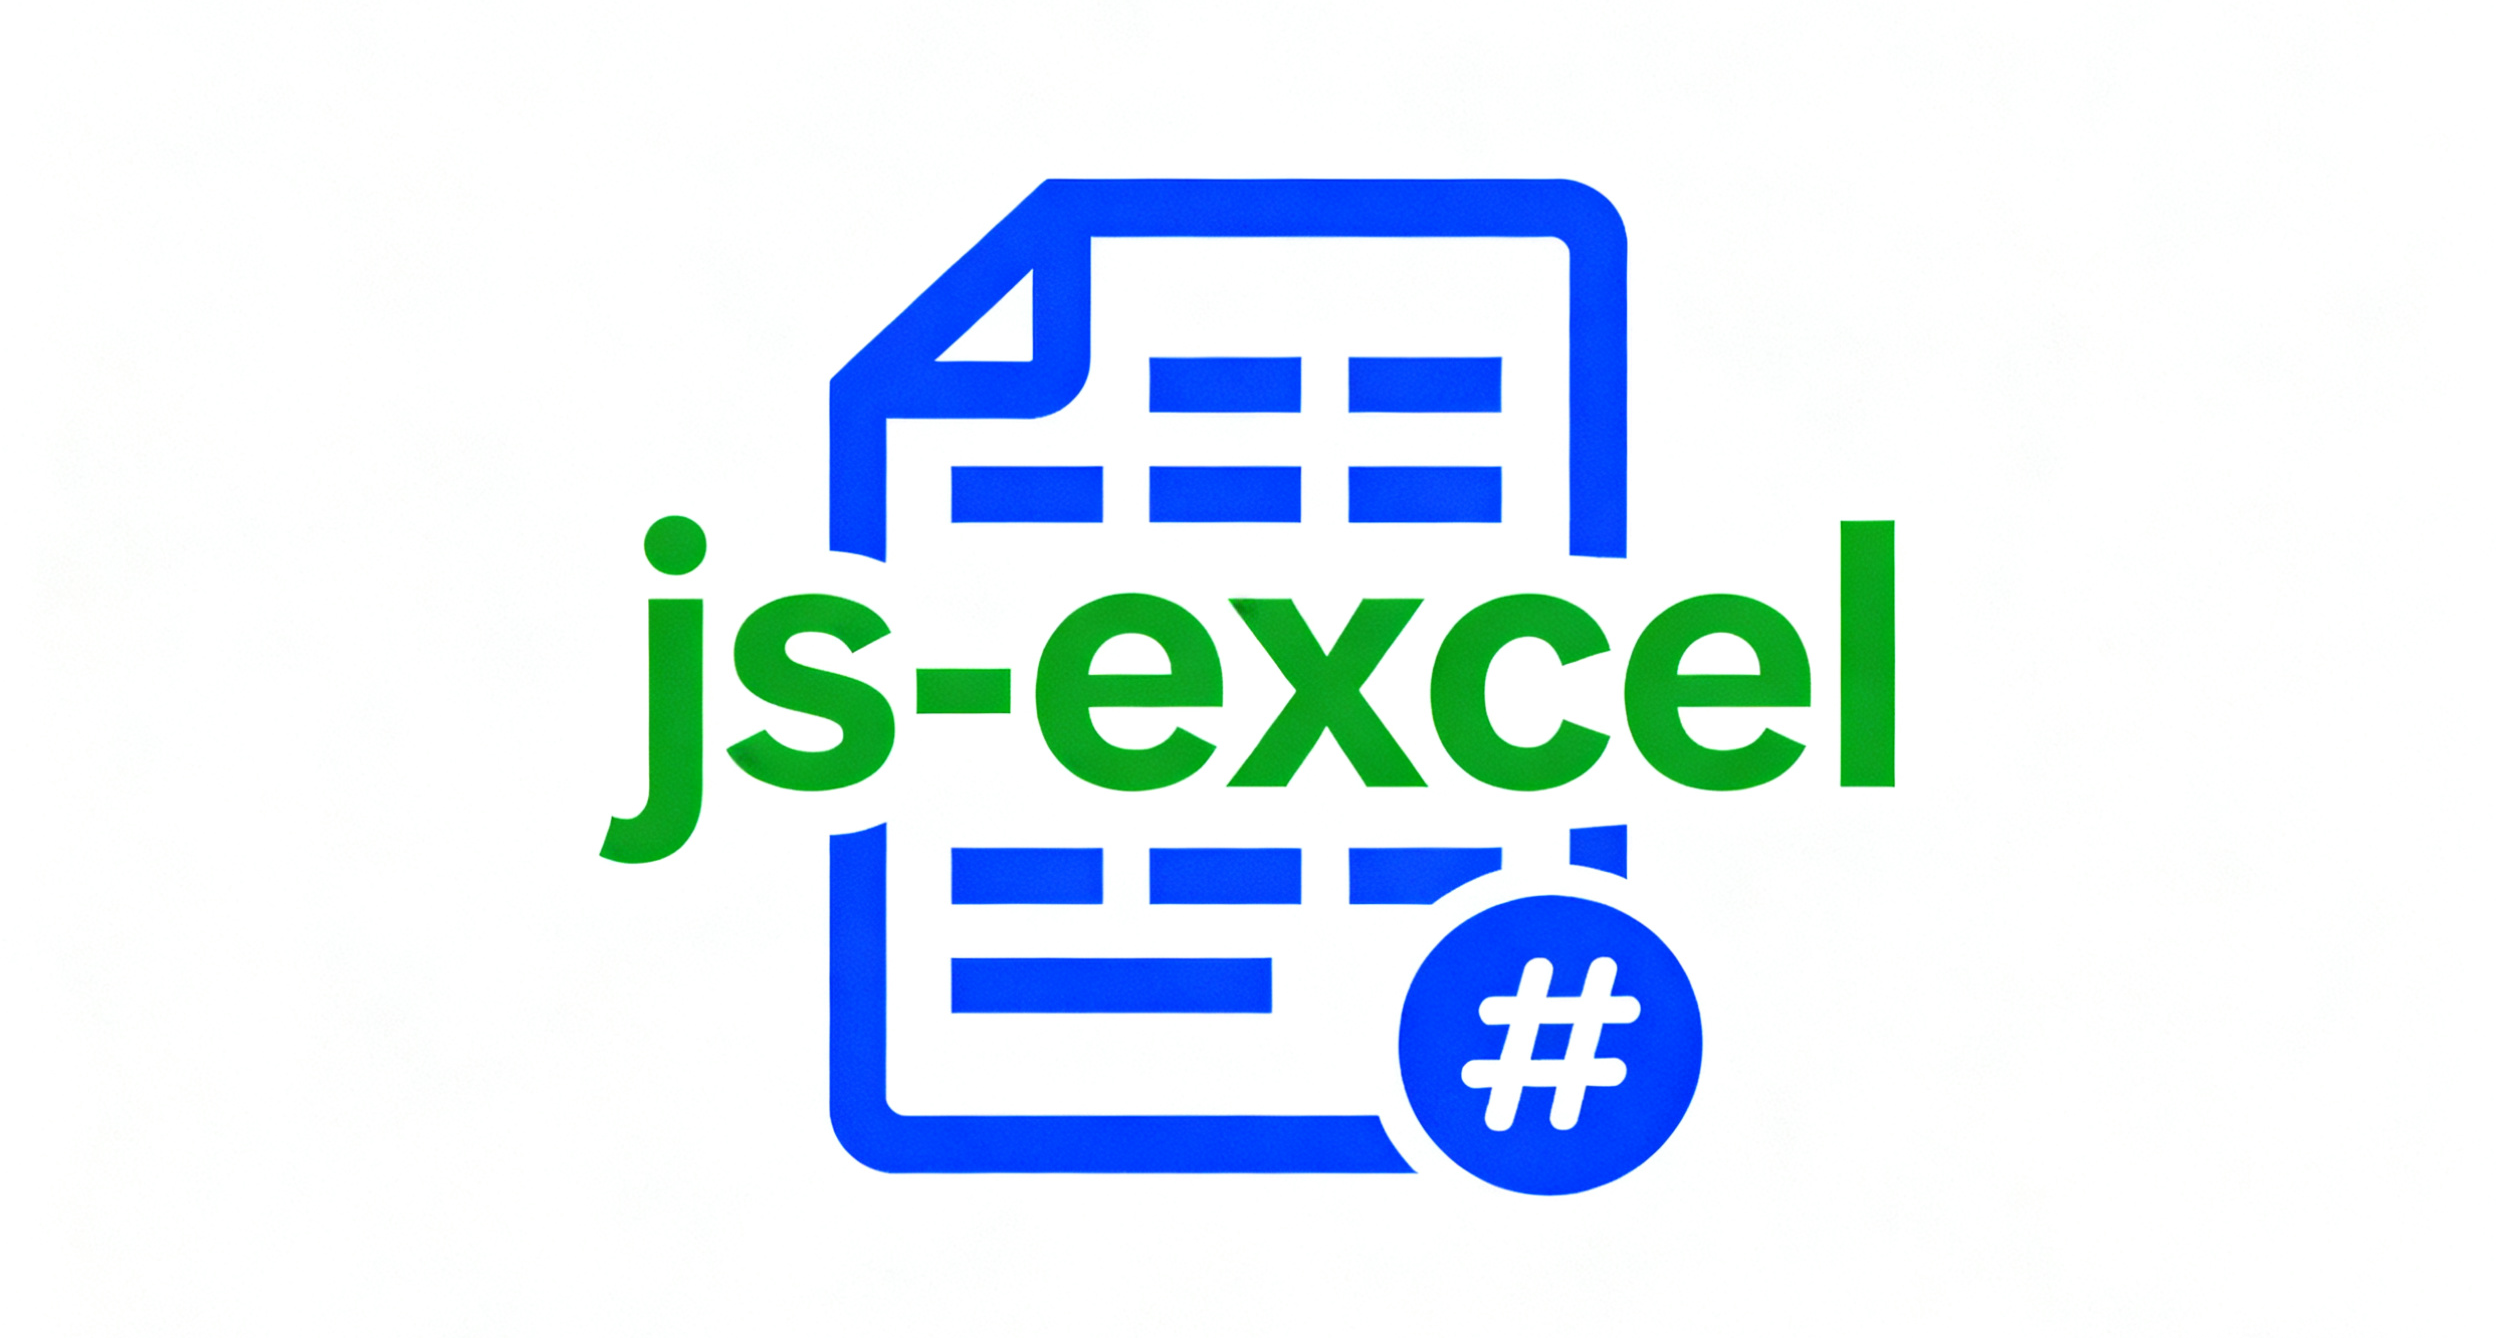
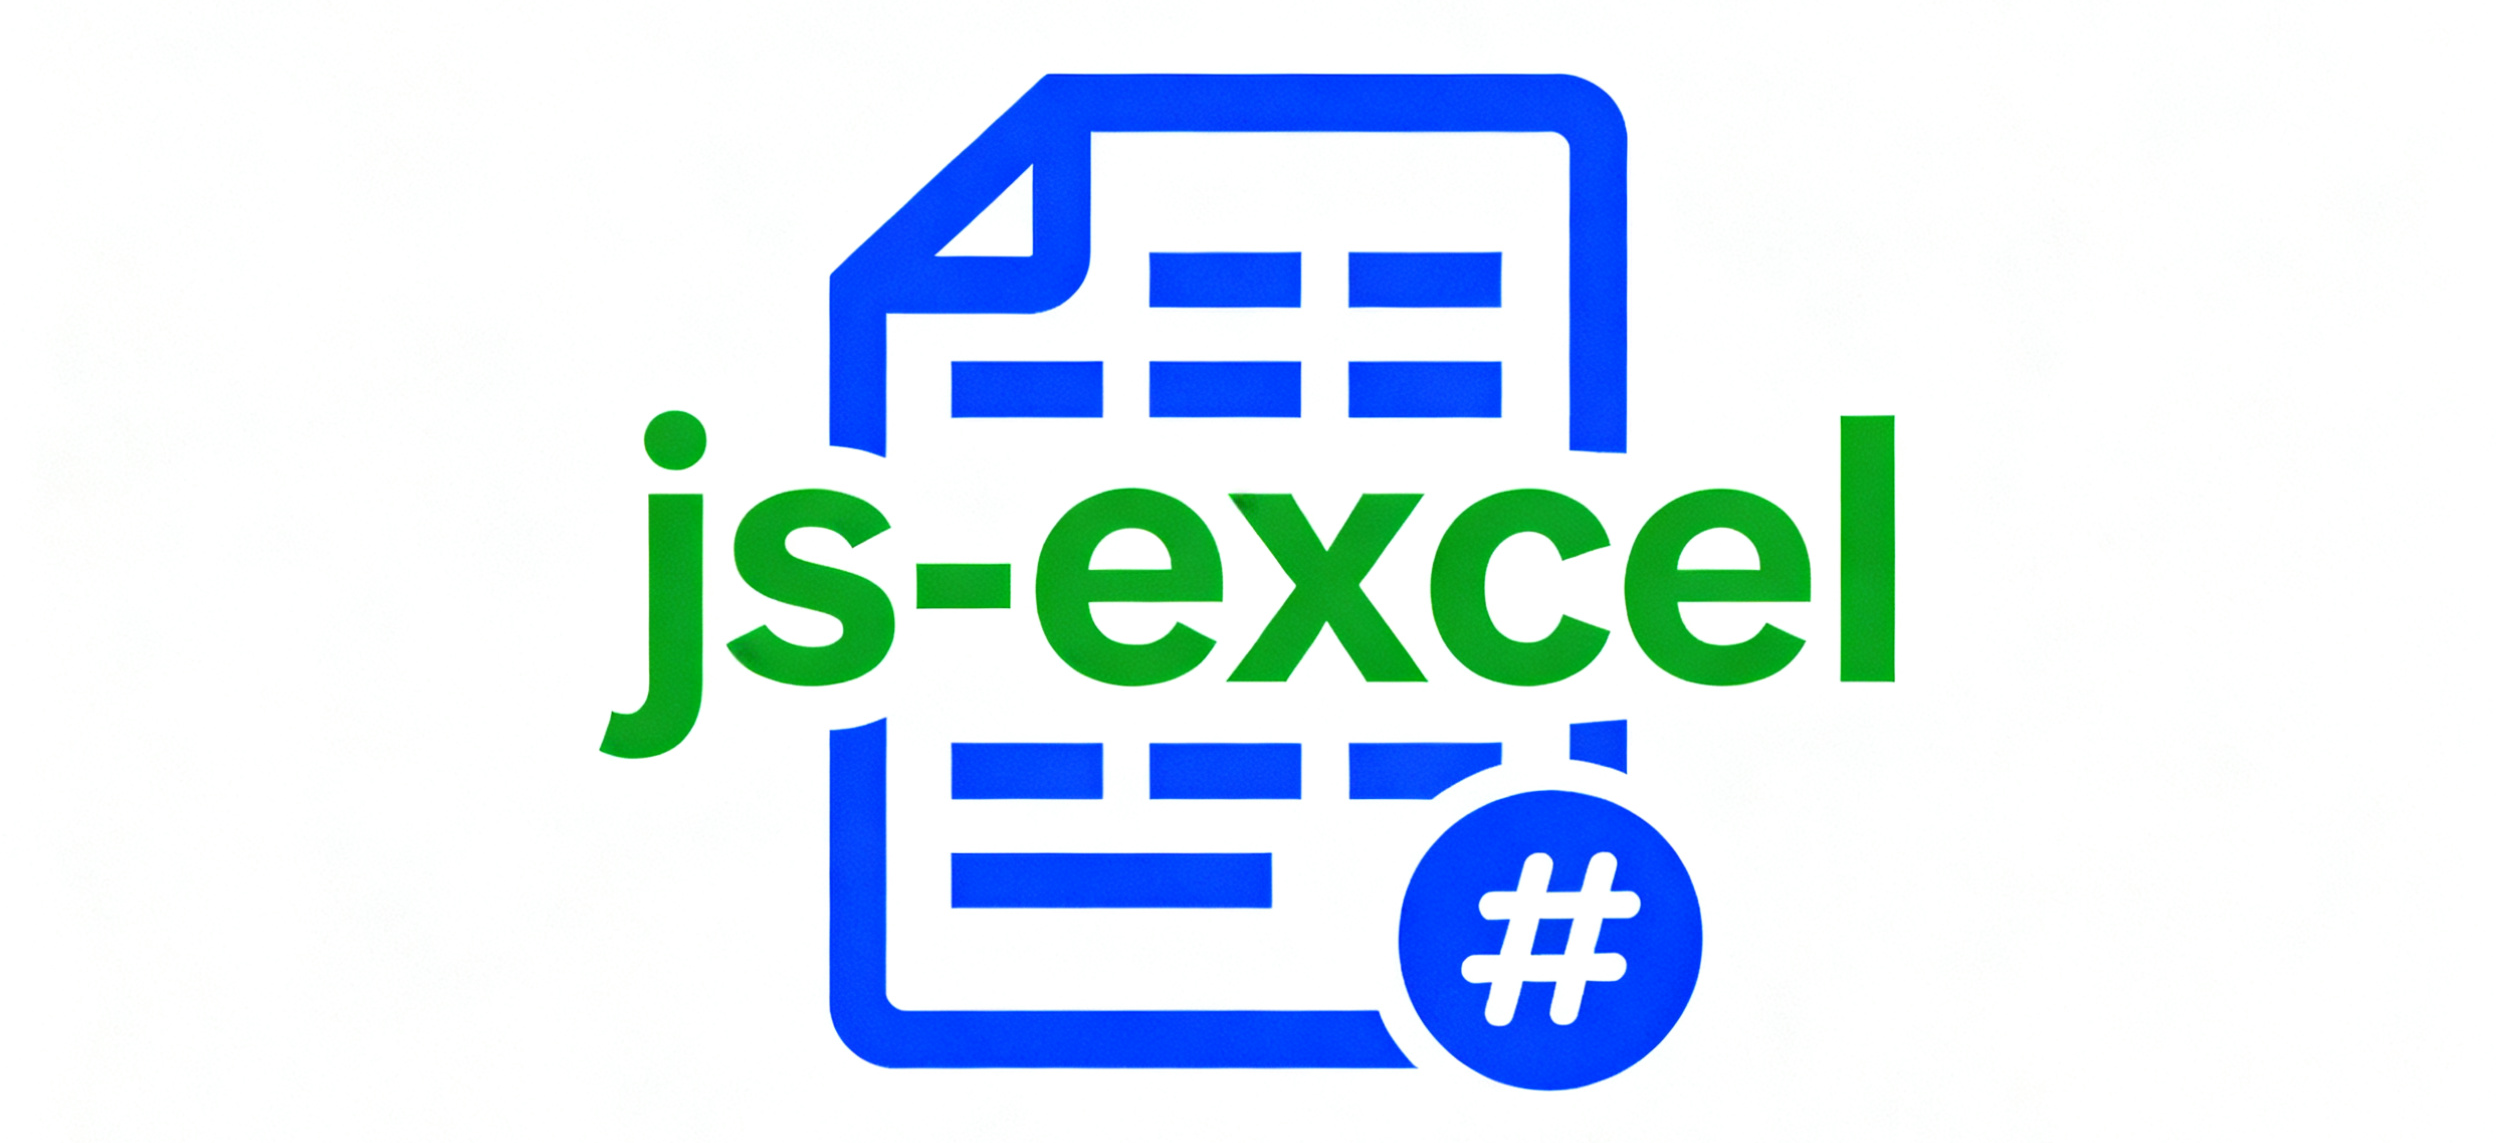
edit readme

diff --git a/README.md b/README.md
@@ -1,11 +1,15 @@
 
+<center>
+
 ![](doc/img/icon.png)
 
-# js-excel
+</center>
 
 # 简介
 
 js-excel是一个在线excel数据导入、导出的框架
+
+![](doc/img/snapshot.png)
 
 # 优点
 
